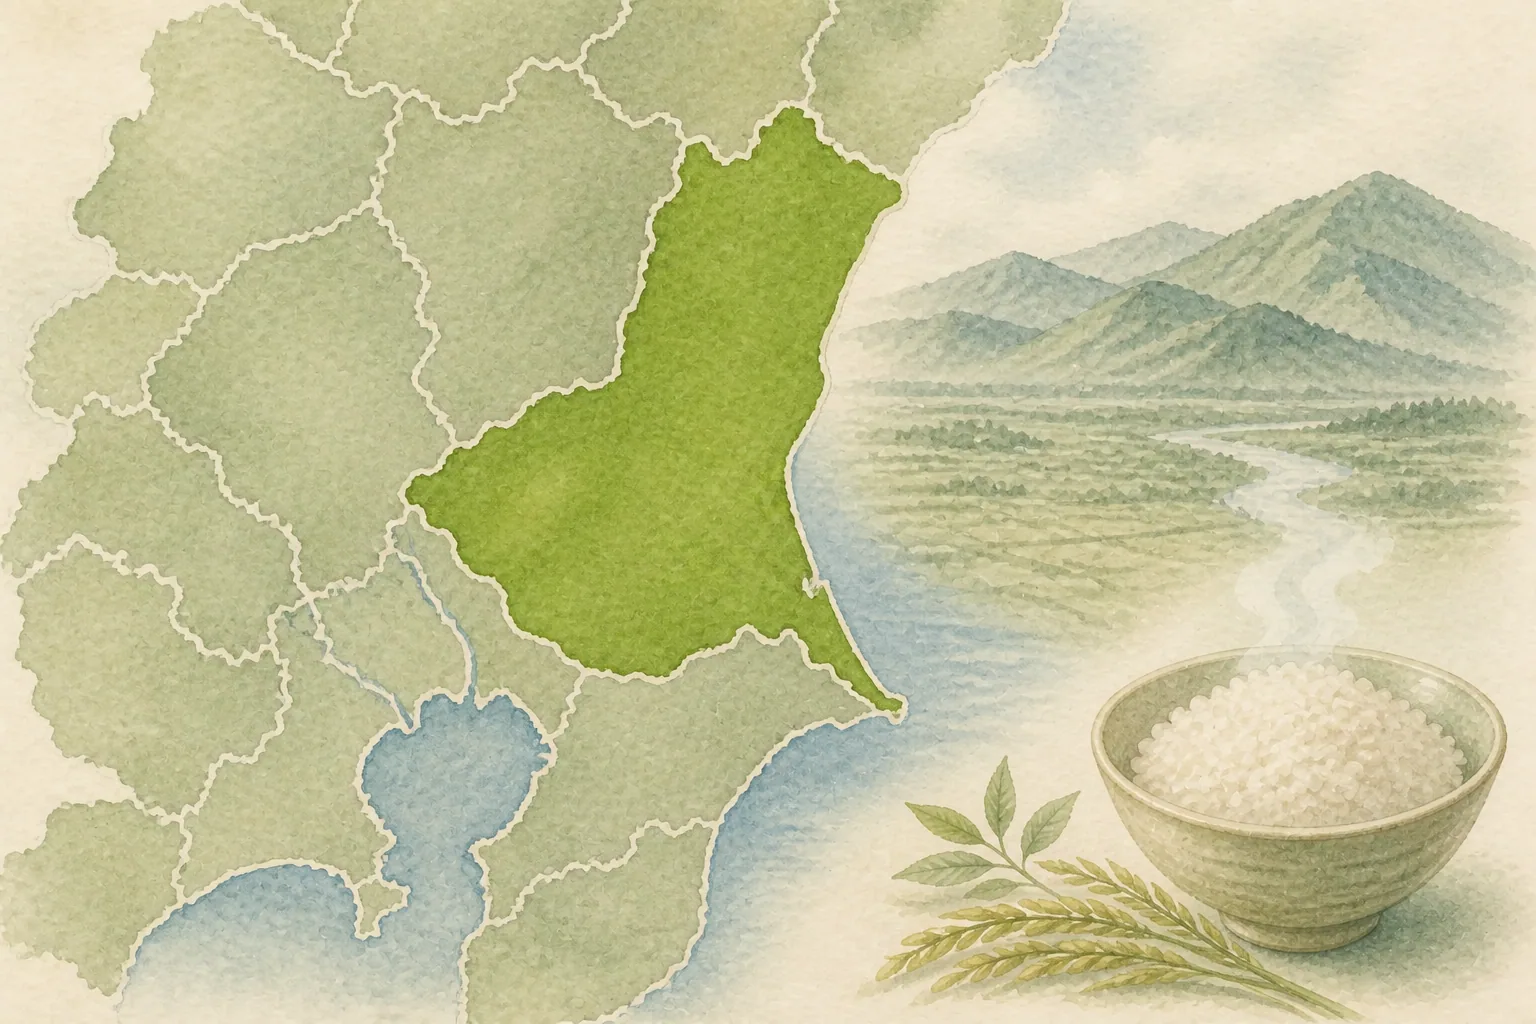
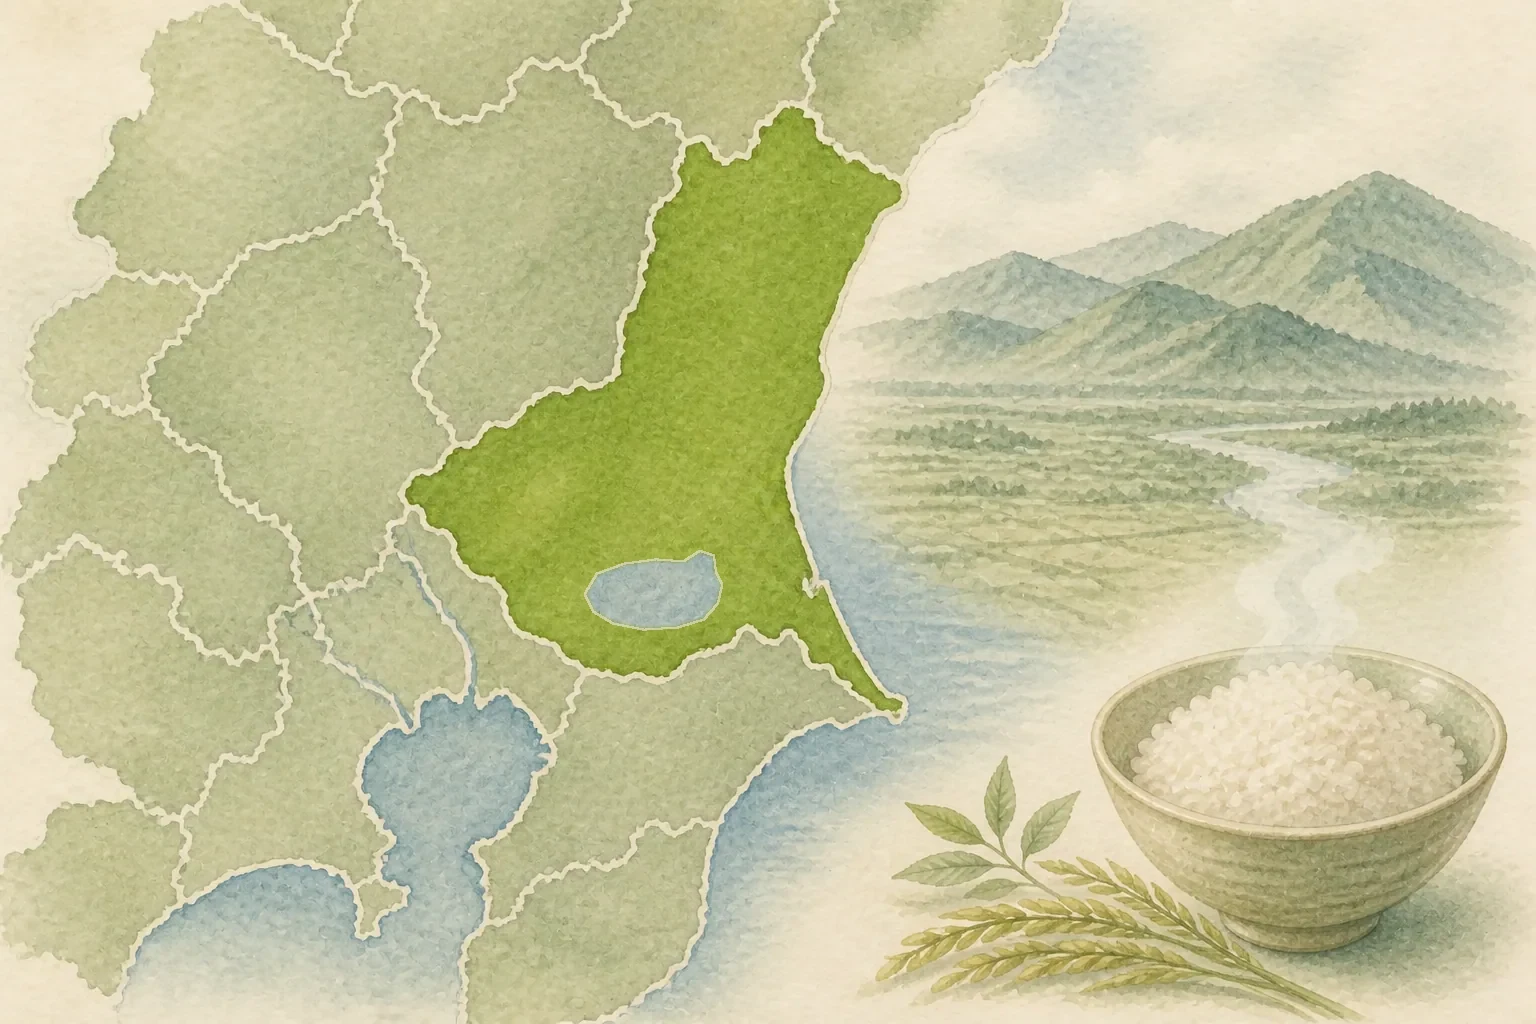
v1.22.0: 特A専用画 第1弾8銘柄＋茨城画に霞ヶ浦

Changed region(s): [[0.375, 0.5312, 0.4688, 0.625]]

diff --git a/src/data/editorial/artManifest.ts b/src/data/editorial/artManifest.ts
@@ -17,6 +17,14 @@ export const BRAND_ART_IDS = new Set<string>([
   "tentakaku",
   "tsuyahime",
   "yumepirika",
+  "seiten-no-hekireki",
+  "ginga-no-shizuku",
+  "sakihokore",
+  "yukiwakamaru",
+  "ichihomare",
+  "kinumusume",
+  "genki-tsukushi",
+  "akihonami",
 ]);
 
 export const REGION_ART_IDS = new Set<string>([

diff --git a/docs/10-changelog.md b/docs/10-changelog.md
@@ -5,6 +5,8 @@
 見出し日付は発版日（`YYYY-MM-DD`）。旧版は VERSION を上げた commit 日で遡及記入。
 
 ## Unreleased
+- 特A銘柄に専用画を追加（第1弾8銘柄：青天の霹靂・銀河のしずく・サキホコレ・雪若丸・いちほまれ・きぬむすめ・元気つくし・あきほなみ）。令和7年産の食味ランキングで特Aを取りながら専用画がなかった銘柄から着手し、各銘柄の産地の風景で描き分けた
+- 茨城県の産地画に霞ヶ浦を描き足した（元画の南部の色づけに埋もれていた湖を、同じ画の水面の質感で復元）
 - 徳島県の産地画を差し替えた：前版は四国の色なし部分が小さな断片に分かれすぎていたため、四国が愛媛・香川・高知・徳島の4県としてはっきり読める画にした（色づけは東端、陸続き）
 - 産地画2件の直し方を差し替えた：前版の描き直しでは、直す範囲の周辺の地形まで変わってしまっていた。徳島県は、四国4県の境が読める構図で改めて描き、色づけは四国の東端に置いた。熊本県は、元の画をそのまま保ち、天草諸島の塊に海峡だけを切り分けて諸島らしくした（変更は天草の部分のみ）
 - 産地画の地理の誤りを2件修正：徳島県の画は、徳島が四国から離れた島のように描かれていたため、四国の東端として陸続きに描き直した。熊本県の画は、天草諸島が一塊の陸地に見えたため、大小の島が海峡を隔てて散らばる諸島として描き直した。全産地画の点検で見つかった修正で、画風と構図は従来のものを保っている
